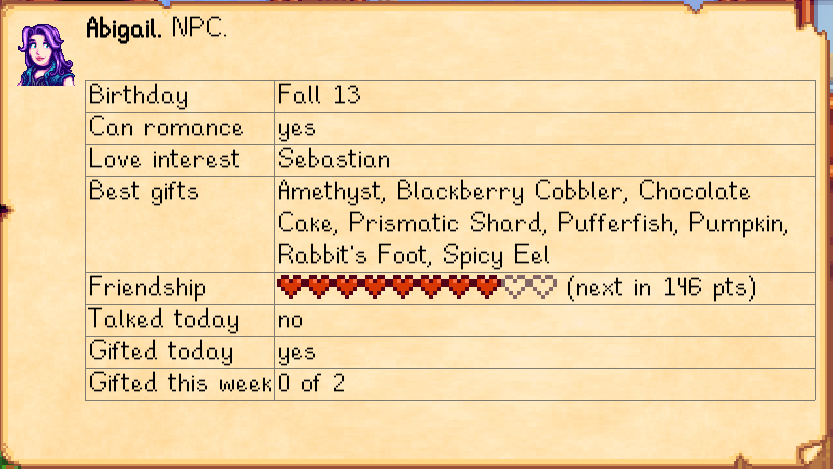
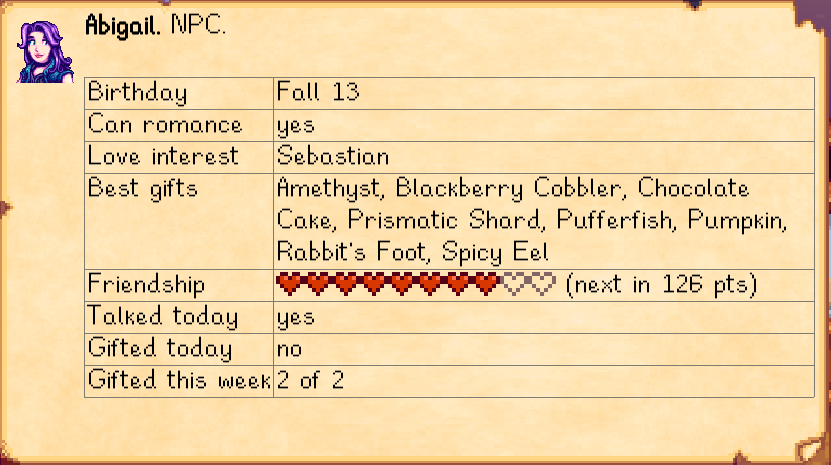
fix incorrect NPC fields

Changed region(s): [[0.0, 0.0, 1.0, 1.0]]

diff --git a/LookupAnything/Framework/Subjects/CharacterSubject.cs b/LookupAnything/Framework/Subjects/CharacterSubject.cs
@@ -26,6 +26,7 @@ namespace Pathoschild.LookupAnything.Framework.Subjects
         *********/
         /// <summary>Construct an instance.</summary>
         /// <param name="character">The underlying character.</param>
+        /// <remarks>Reverse engineered from <see cref="NPC"/>.</remarks>
         public CharacterSubject(NPC character)
             : base(character.getName(), null, "NPC")
         {
@@ -39,8 +40,8 @@ namespace Pathoschild.LookupAnything.Framework.Subjects
                     new CharacterGiftTastesField("Best gifts", this.GetGiftTastes(character)),
                     new CharacterFriendshipField("Friendship", Game1.player.friendships[character.name][0]),
                     new GenericField("Talked today", Game1.player.friendships[character.name][2] == 1),
-                    new GenericField("Gifted today", Game1.player.friendships[character.name][1] > 0),
-                    new GenericField("Gifted this week", $"{Game1.player.friendships[character.name][3]} of {NPC.maxGiftsPerWeek}")
+                    new GenericField("Gifted today", Game1.player.friendships[character.name][3] > 0),
+                    new GenericField("Gifted this week", $"{Game1.player.friendships[character.name][1]} of {NPC.maxGiftsPerWeek}")
                 );
             }
 
